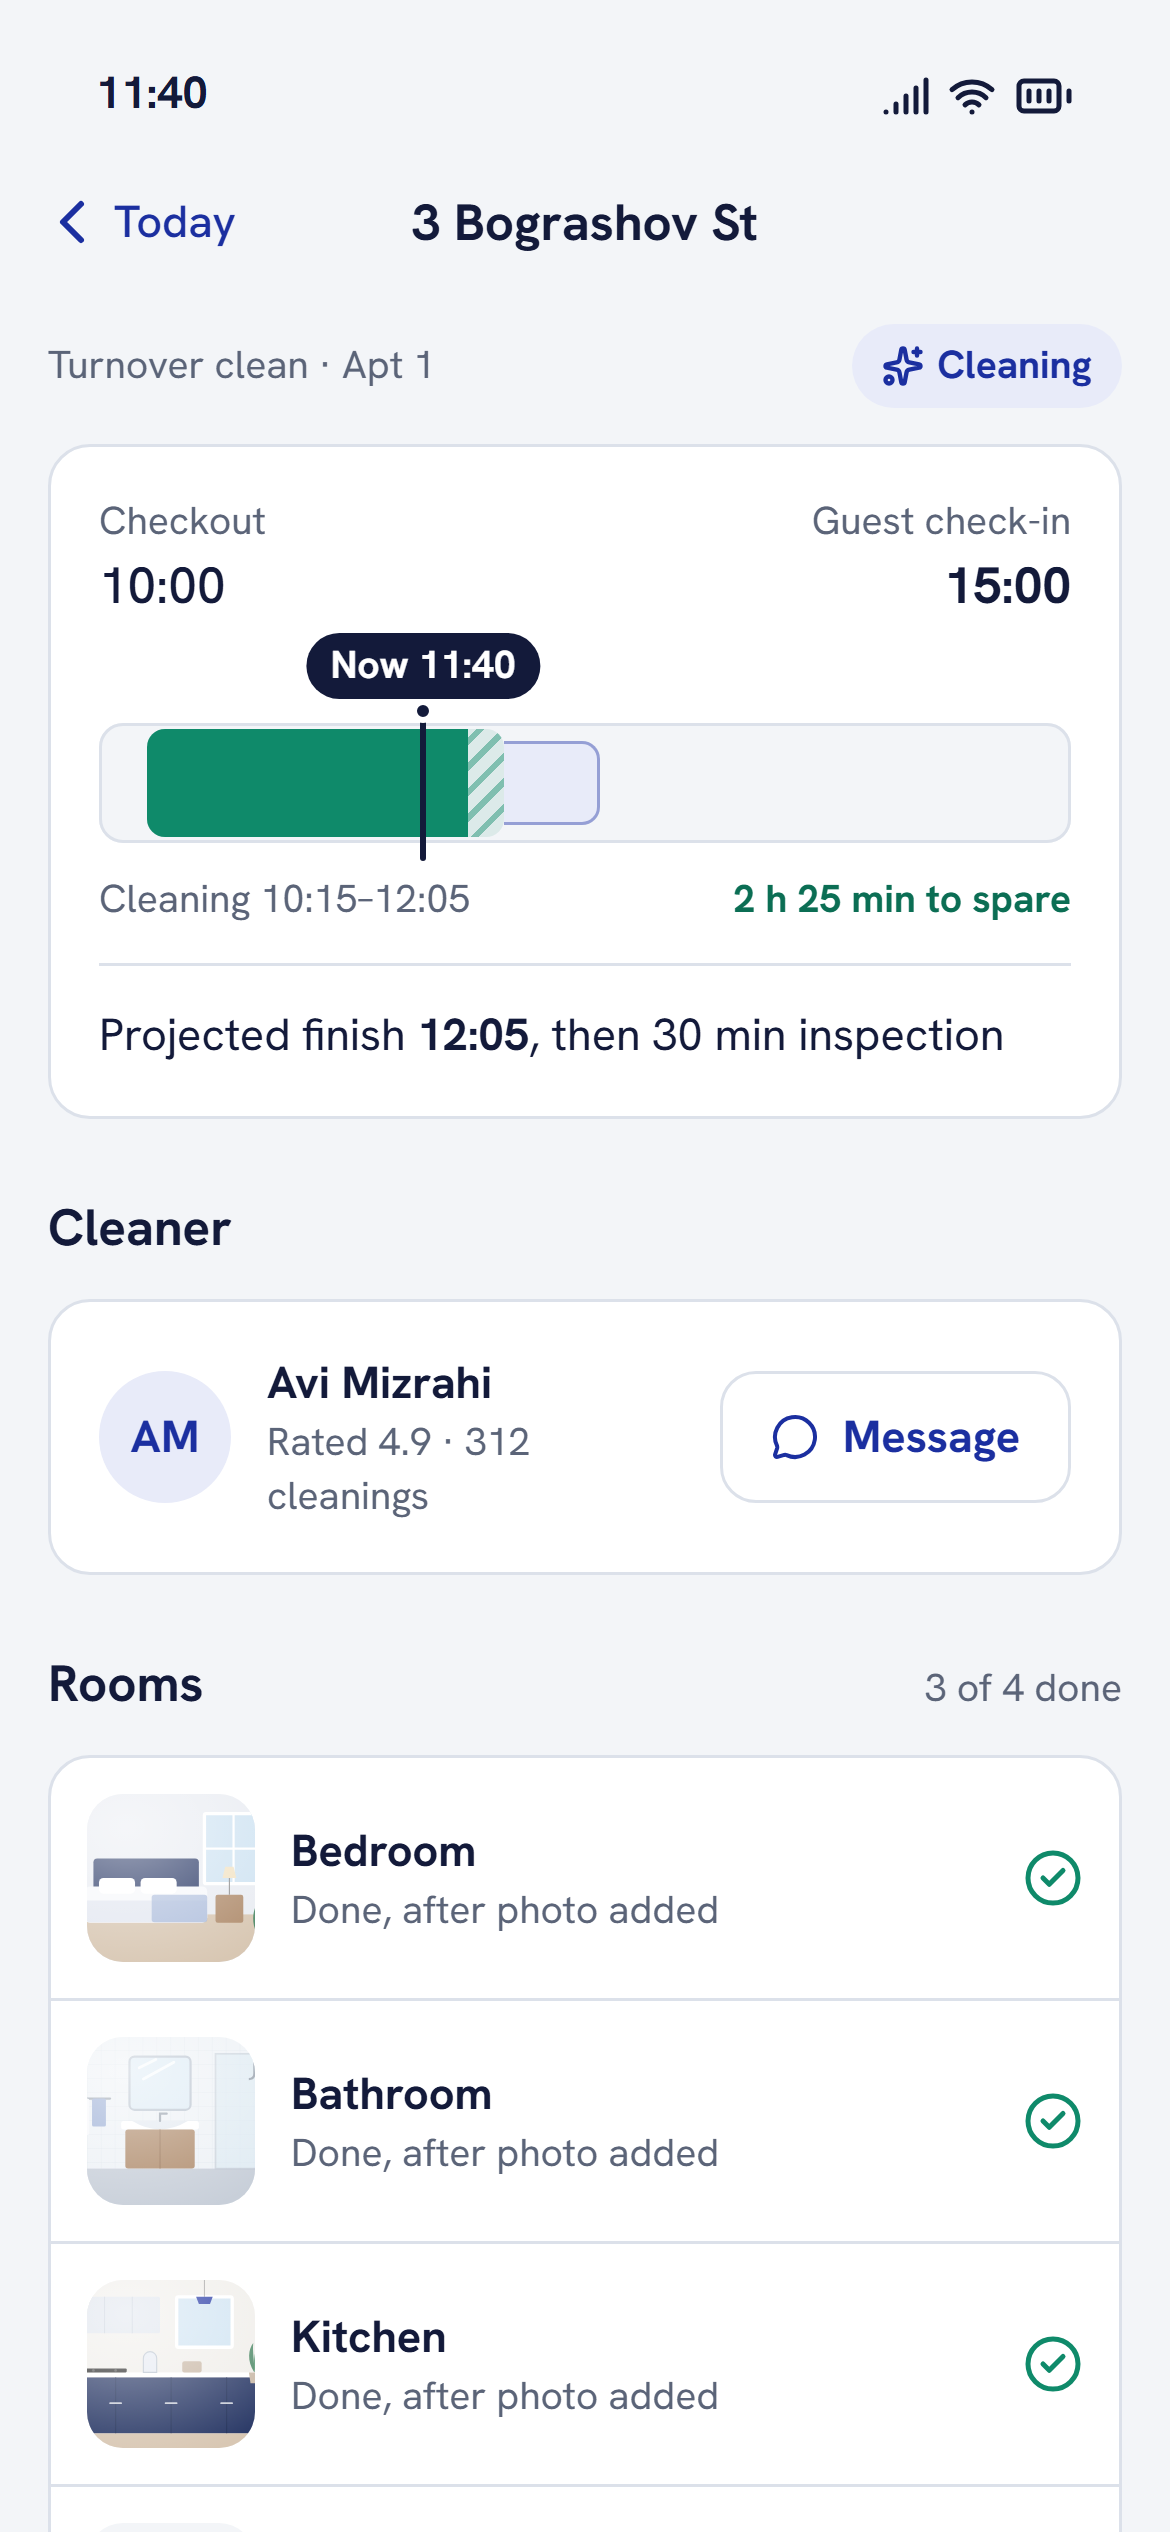
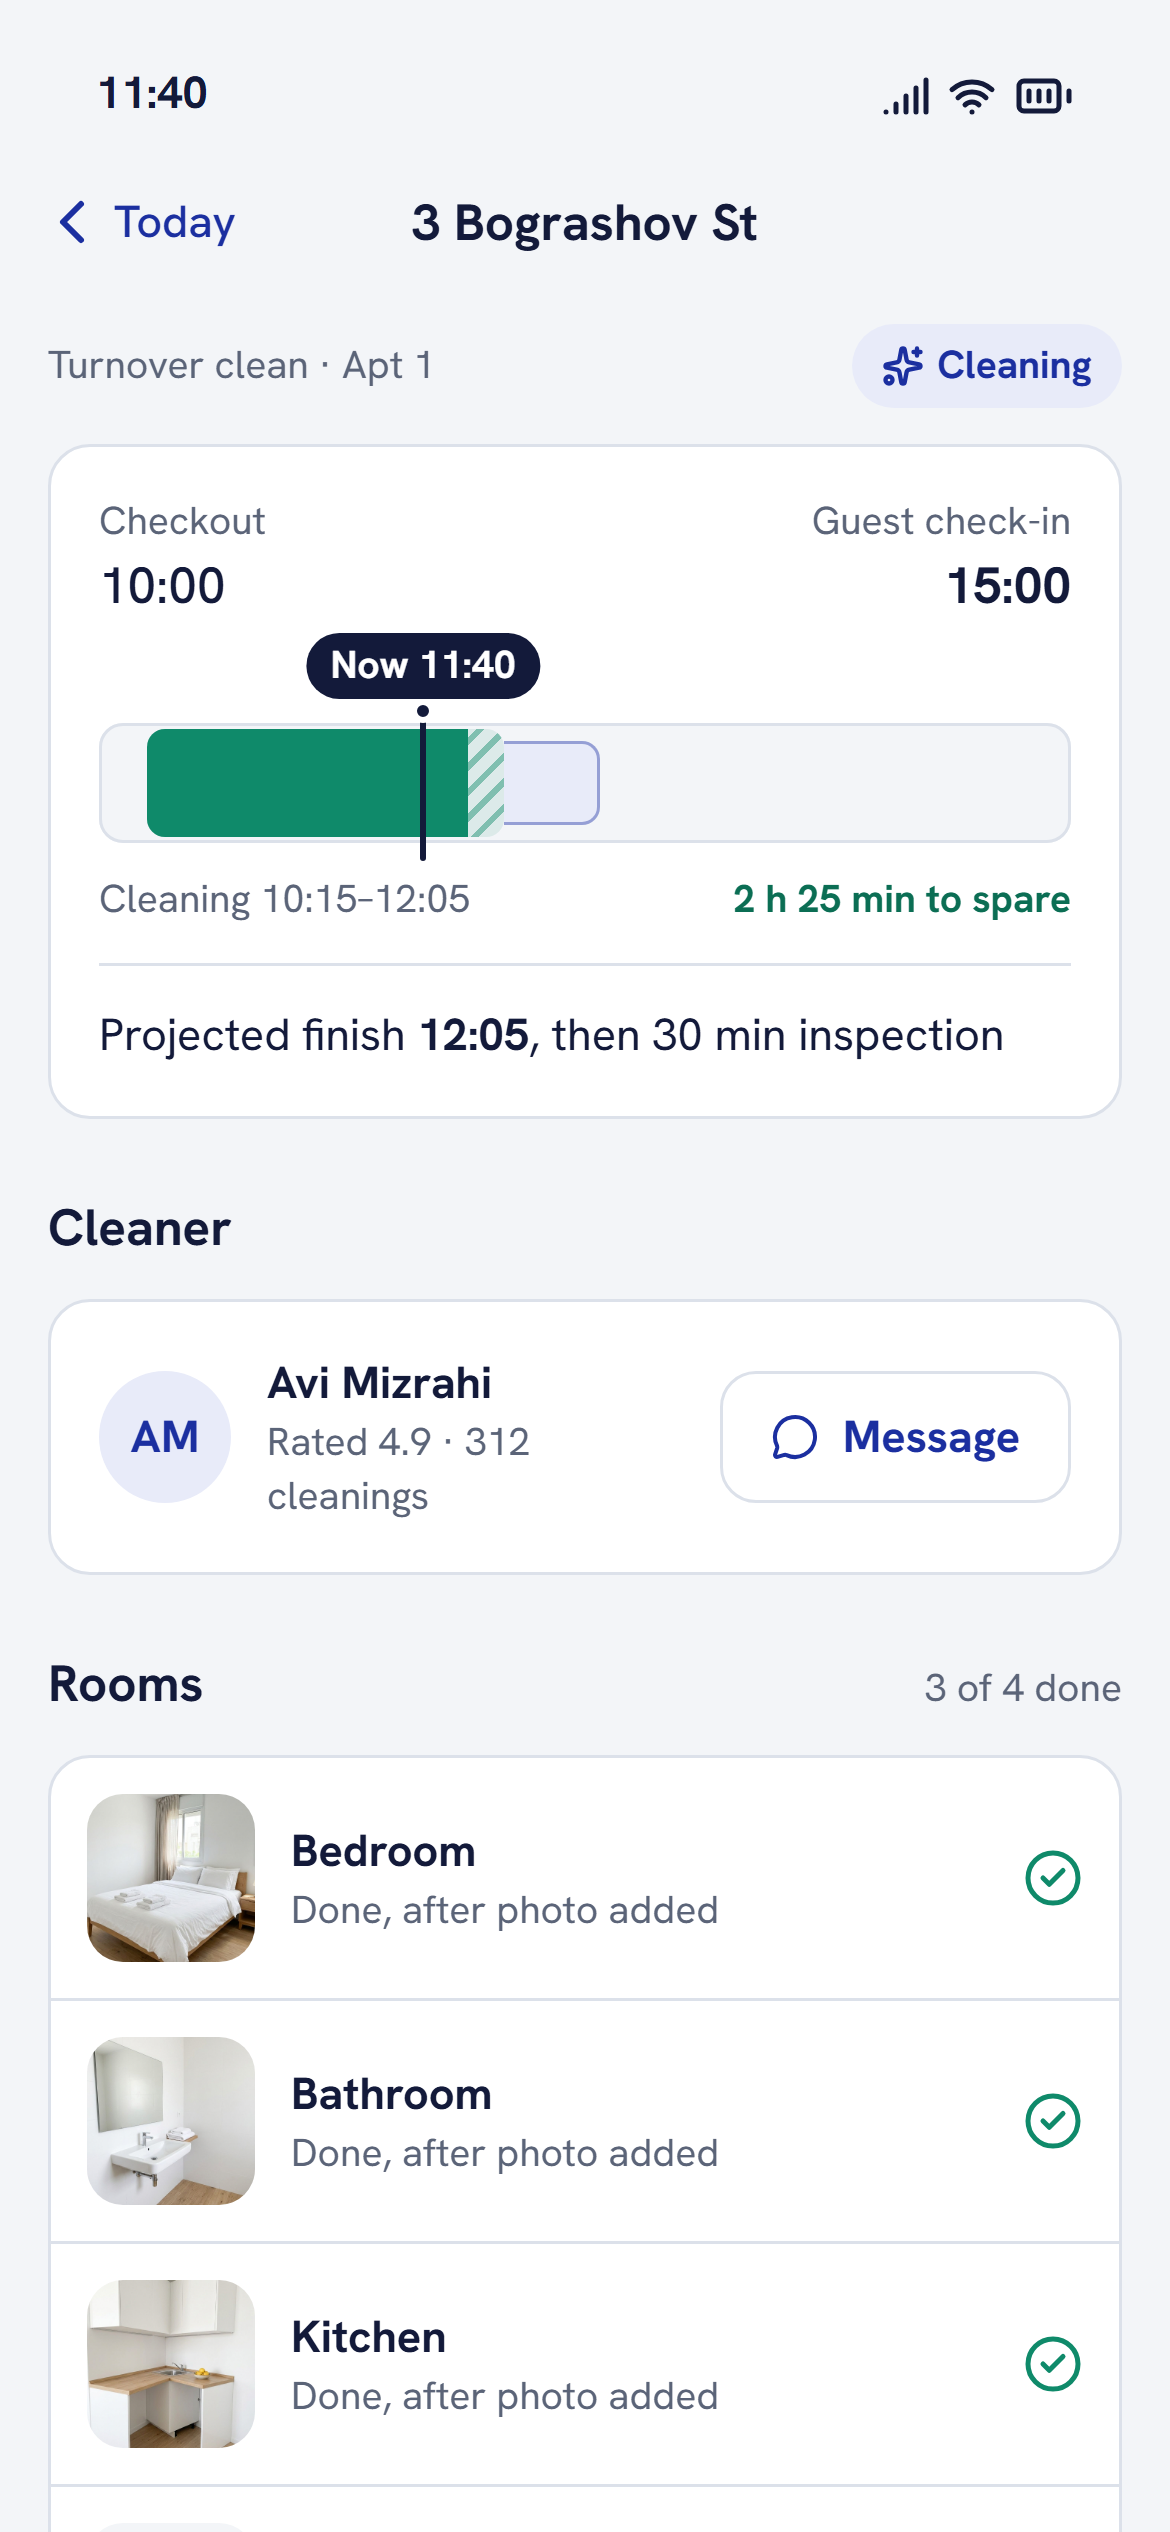
Replace placeholder illustrations with real photos
- Room after-photos, the mirror close-up for rework, and five Bauhaus facades are now JPGs in public/mock/
- Only the inspector map stays generated; make-mock builds just that
- Screenshots in shots/ re-rendered with the photos
- .gitignore: ignore the local .vercel folder

Changed region(s): [[0.0615, 0.6864, 0.2154, 0.9672]]

diff --git a/src/data/catalog.ts b/src/data/catalog.ts
@@ -8,7 +8,7 @@ export const PROPERTIES: Property[] = [
     bedrooms: 2,
     area: 70,
     zip: '6343503',
-    photo: '/mock/property-ben-yehuda.svg',
+    photo: '/mock/property-ben-yehuda.jpg',
     access: 'Key box by the door, code 4412. Third floor, no lift.',
   },
   {
@@ -18,7 +18,7 @@ export const PROPERTIES: Property[] = [
     bedrooms: 1,
     area: 48,
     zip: '6345113',
-    photo: '/mock/property-hayarkon.svg',
+    photo: '/mock/property-hayarkon.jpg',
     access: 'Doorman has the key. Say you are from Patronim.',
   },
   {
@@ -28,7 +28,7 @@ export const PROPERTIES: Property[] = [
     bedrooms: 3,
     area: 100,
     zip: '6342507',
-    photo: '/mock/property-bograshov.svg',
+    photo: '/mock/property-bograshov.jpg',
     access: 'Smart lock. The code arrives by SMS 30 min before start.',
   },
   {
@@ -38,7 +38,7 @@ export const PROPERTIES: Property[] = [
     bedrooms: 0,
     area: 32,
     zip: '6608612',
-    photo: '/mock/property-levinski.svg',
+    photo: '/mock/property-levinski.jpg',
     access: 'Key box on the gate, code 0719.',
   },
   {
@@ -48,7 +48,7 @@ export const PROPERTIES: Property[] = [
     bedrooms: 1,
     area: 55,
     zip: '6423901',
-    photo: '/mock/property-weizmann.svg',
+    photo: '/mock/property-weizmann.jpg',
     access: 'Ground floor. Key under the blue plant pot.',
   },
 ];
@@ -151,13 +151,13 @@ const ROOM_TEMPLATE: { id: string; name: string; items: string[] }[] = [
 ];
 
 export const ROOM_PHOTOS: Record<string, string> = {
-  bedroom: '/mock/room-bedroom.svg',
-  bathroom: '/mock/room-bathroom.svg',
-  kitchen: '/mock/room-kitchen.svg',
-  living: '/mock/room-living.svg',
+  bedroom: '/mock/room-bedroom.jpg',
+  bathroom: '/mock/room-bathroom.jpg',
+  kitchen: '/mock/room-kitchen.jpg',
+  living: '/mock/room-living.jpg',
 };
 
-export const REDO_PHOTO = '/mock/redo-mirror.svg';
+export const REDO_PHOTO = '/mock/redo-mirror.jpg';
 
 export const makeRooms = (): Room[] =>
   ROOM_TEMPLATE.map((r) => ({

diff --git a/src/screens/patron/MissingItemSheet.tsx b/src/screens/patron/MissingItemSheet.tsx
@@ -7,7 +7,7 @@ import { Stepper } from '../../components/Stepper';
 import { MISSING_TYPES } from '../../data/catalog';
 import { useStore } from '../../store/useStore';
 
-const MISSING_PHOTO = '/mock/room-bathroom.svg';
+const MISSING_PHOTO = '/mock/room-bathroom.jpg';
 
 export const MissingItemSheet = ({ open, onClose, jobId }: { open: boolean; onClose: () => void; jobId: string }) => {
   const report = useStore((s) => s.reportMissing);

diff --git a/src/components/PhotoTile.stories.tsx b/src/components/PhotoTile.stories.tsx
@@ -14,7 +14,7 @@ type Story = StoryObj;
 export const Example: Story = {
   render: () => (
     <div className="grid grid-cols-2 gap-3">
-      <PhotoTile src="/mock/room-bathroom.svg" alt="Bathroom after cleaning" caption="After" />
+      <PhotoTile src="/mock/room-bathroom.jpg" alt="Bathroom after cleaning" caption="After" />
       <PhotoTile alt="Add after photo" required onAdd={() => {}} />
     </div>
   ),
